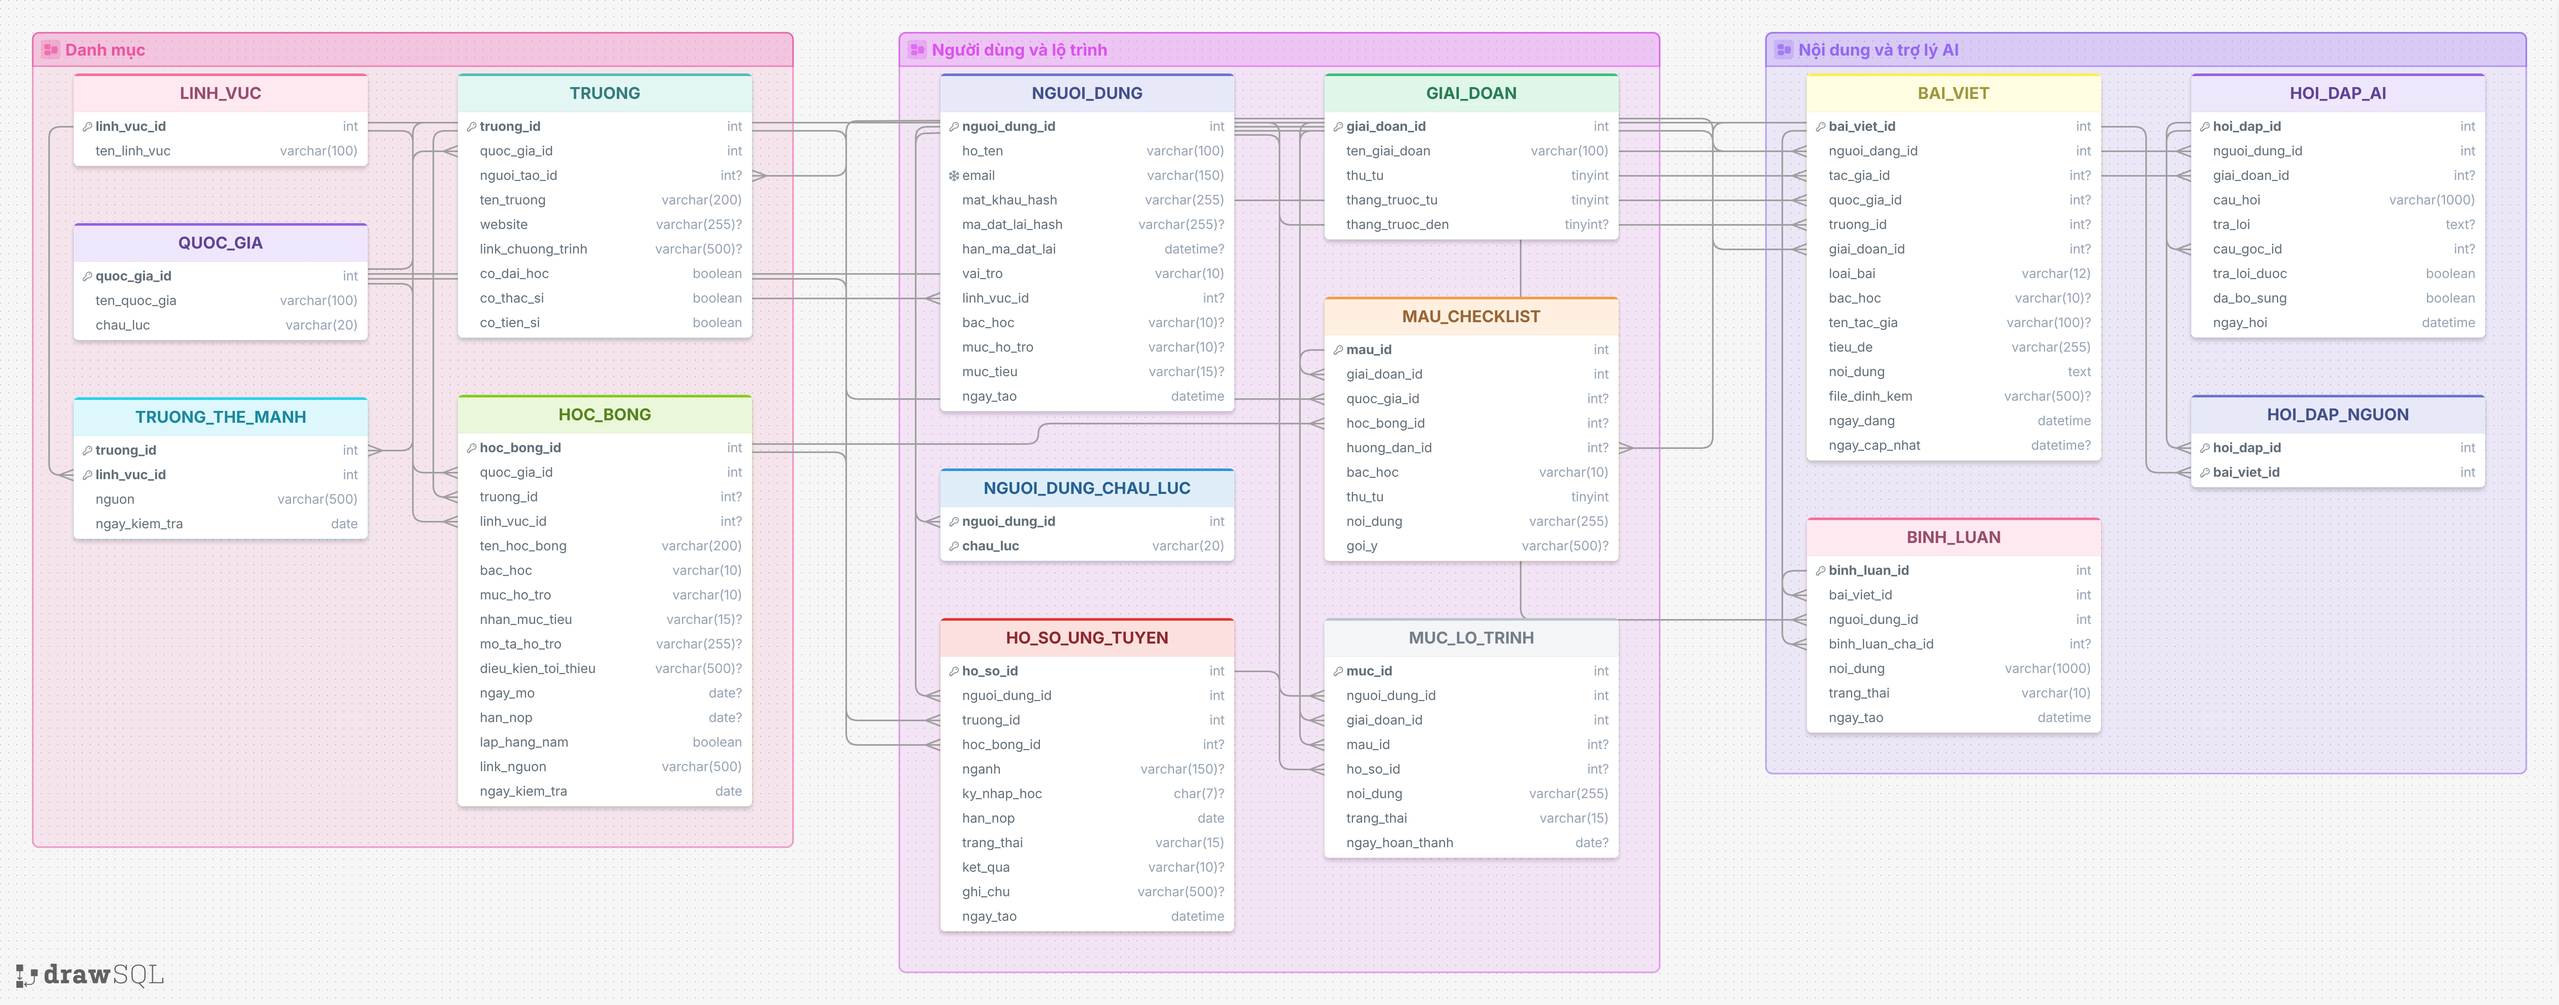
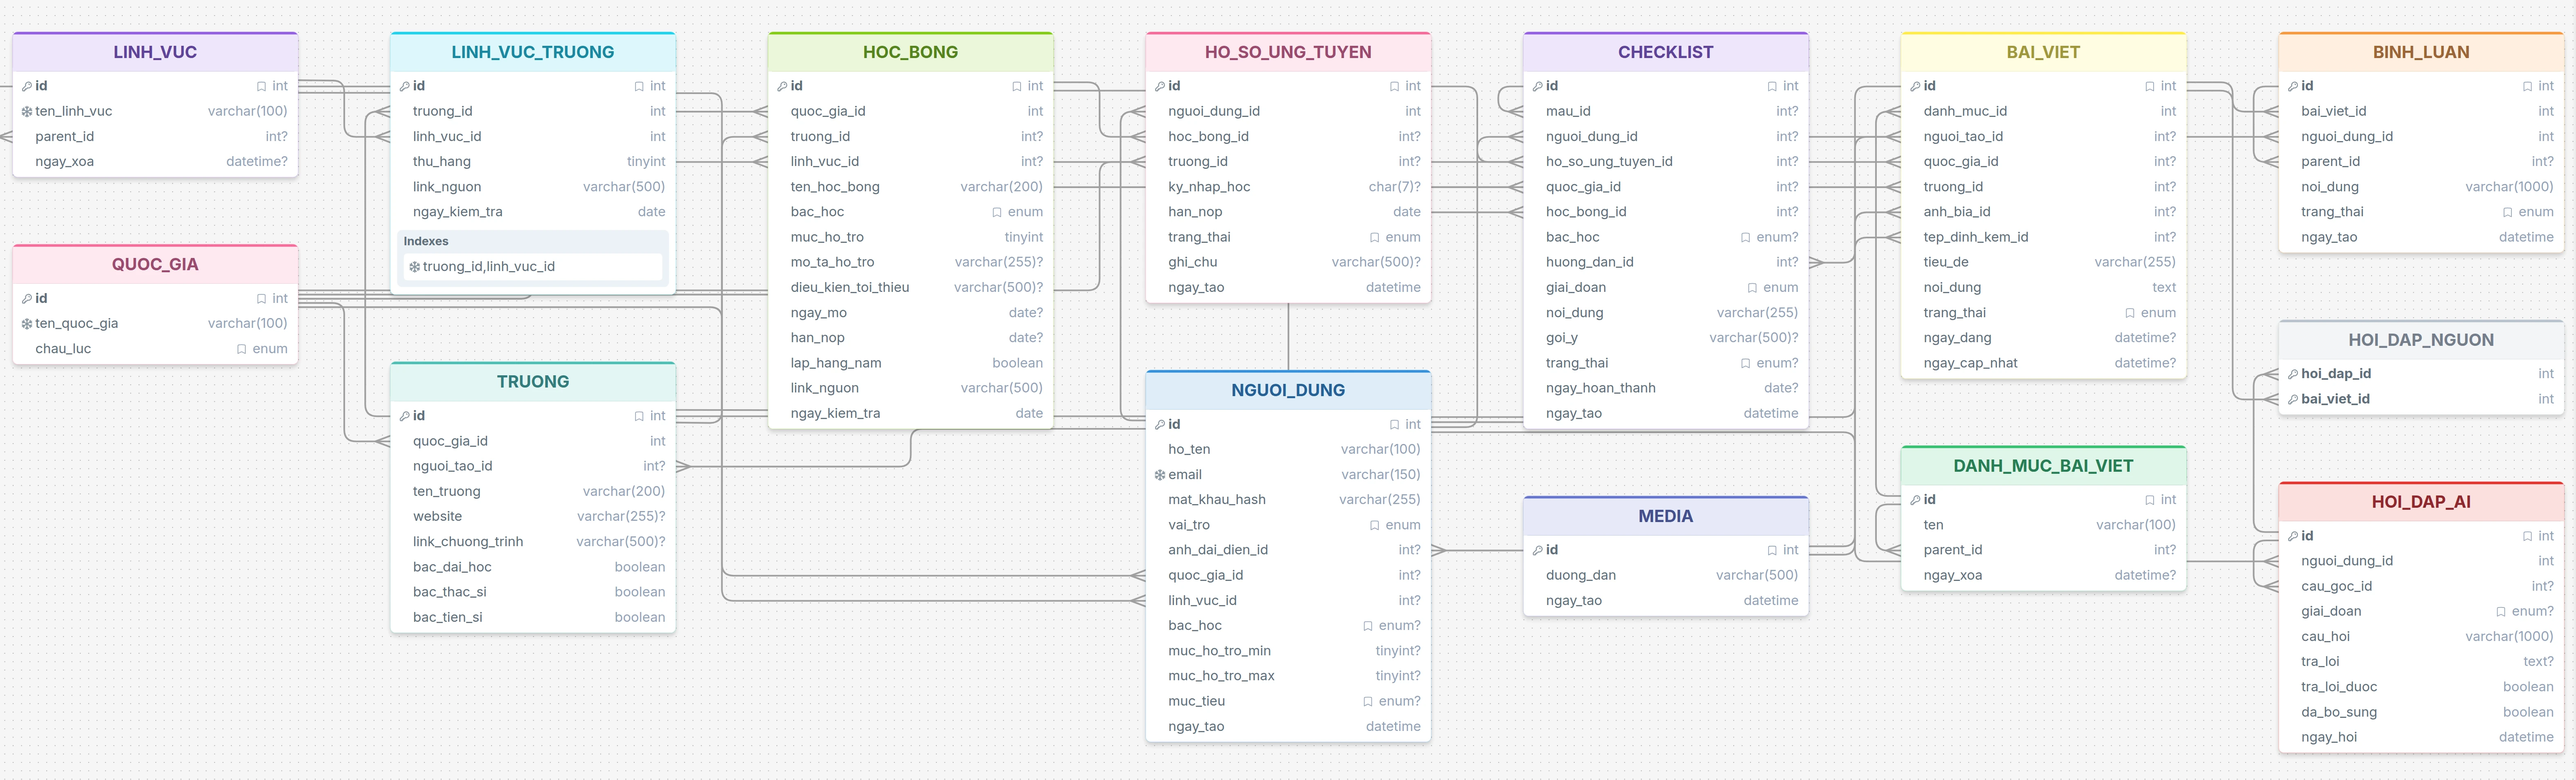
Ảnh ERD và link drawSQL theo sơ đồ applymatev2

diff --git a/index.html b/index.html
@@ -102,8 +102,8 @@
 </div></section><section class="sec alt" id="erd"><div class="wrap">
   <header class="sec-h"><p class="eyebrow"><span class="num">10</span>ERD</p><h2>14 bảng, 34 khóa ngoại (gồm 2 quan hệ M – N tách qua bảng nối)</h2></header>
   
-<figure class="dia wide" data-src="assets/erd-drawsql.webp?v=4d50de9b"><div class="dia-bar"><span class="mono">erd-applymate · drawSQL</span><span class="hint">Ctrl + cuộn để zoom · kéo khi đã phóng to</span><div class="dia-tools"><button class="icon-btn" data-out aria-label="Thu nhỏ">−</button><span class="z">100%</span><button class="icon-btn" data-in aria-label="Phóng to">+</button><button class="icon-btn" data-fit aria-label="Vừa khung">⤧</button><button class="icon-btn" data-full aria-label="Toàn màn hình"><svg width="16" height="16" viewBox="0 0 24 24" fill="none" stroke="currentColor" stroke-width="1.75" stroke-linecap="round" stroke-linejoin="round" aria-hidden="true"><path d="M15 3h6v6M9 21H3v-6M21 3l-7 7M3 21l7-7"/></svg></button></div></div><div class="board"><div class="board-content"><img src="assets/erd-drawsql.webp?v=4d50de9b" alt="ERD của Applymate vẽ trên drawSQL" draggable="false"></div></div></figure>
-<p class="erd-open"><a class="btn-p" href="https://drawsql.app/teams/ngocanhnii/diagrams/erd-applymate" target="_blank" rel="noopener">Mở trên drawSQL ↗</a></p>
+<figure class="dia wide" data-src="assets/erd-drawsql.webp?v=8036432a"><div class="dia-bar"><span class="mono">applymatev2 · drawSQL</span><span class="hint">Ctrl + cuộn để zoom · kéo khi đã phóng to</span><div class="dia-tools"><button class="icon-btn" data-out aria-label="Thu nhỏ">−</button><span class="z">100%</span><button class="icon-btn" data-in aria-label="Phóng to">+</button><button class="icon-btn" data-fit aria-label="Vừa khung">⤧</button><button class="icon-btn" data-full aria-label="Toàn màn hình"><svg width="16" height="16" viewBox="0 0 24 24" fill="none" stroke="currentColor" stroke-width="1.75" stroke-linecap="round" stroke-linejoin="round" aria-hidden="true"><path d="M15 3h6v6M9 21H3v-6M21 3l-7 7M3 21l7-7"/></svg></button></div></div><div class="board"><div class="board-content"><img src="assets/erd-drawsql.webp?v=8036432a" alt="ERD của Applymate vẽ trên drawSQL" draggable="false"></div></div></figure>
+<p class="erd-open"><a class="btn-p" href="https://drawsql.app/teams/ngocanhnii/diagrams/applymatev2" target="_blank" rel="noopener">Mở trên drawSQL ↗</a></p>
 <h3 class="sub">Quan hệ M – N</h3>
 <div class="tbl"><table><tr><th>Quan hệ</th><th>Diễn giải</th><th>Cách lưu</th></tr><tr><td><b>TRUONG</b> <span class="card">M – N</span> <b>LINH_VUC</b></td><td>Một trường mạnh nhiều lĩnh vực; một lĩnh vực có nhiều trường mạnh.</td><td>Tách qua bảng nối LINH_VUC_TRUONG (kèm thứ hạng, nguồn, ngày kiểm tra)</td></tr><tr><td><b>HOI_DAP_AI</b> <span class="card">M – N</span> <b>BAI_VIET</b></td><td>Một câu trả lời trích nhiều bài; một bài được trích cho nhiều câu trả lời.</td><td>Tách qua bảng nối HOI_DAP_NGUON</td></tr></table></div>
 <h3 class="sub">Quan hệ 1 – N và 0..1 – N</h3>
